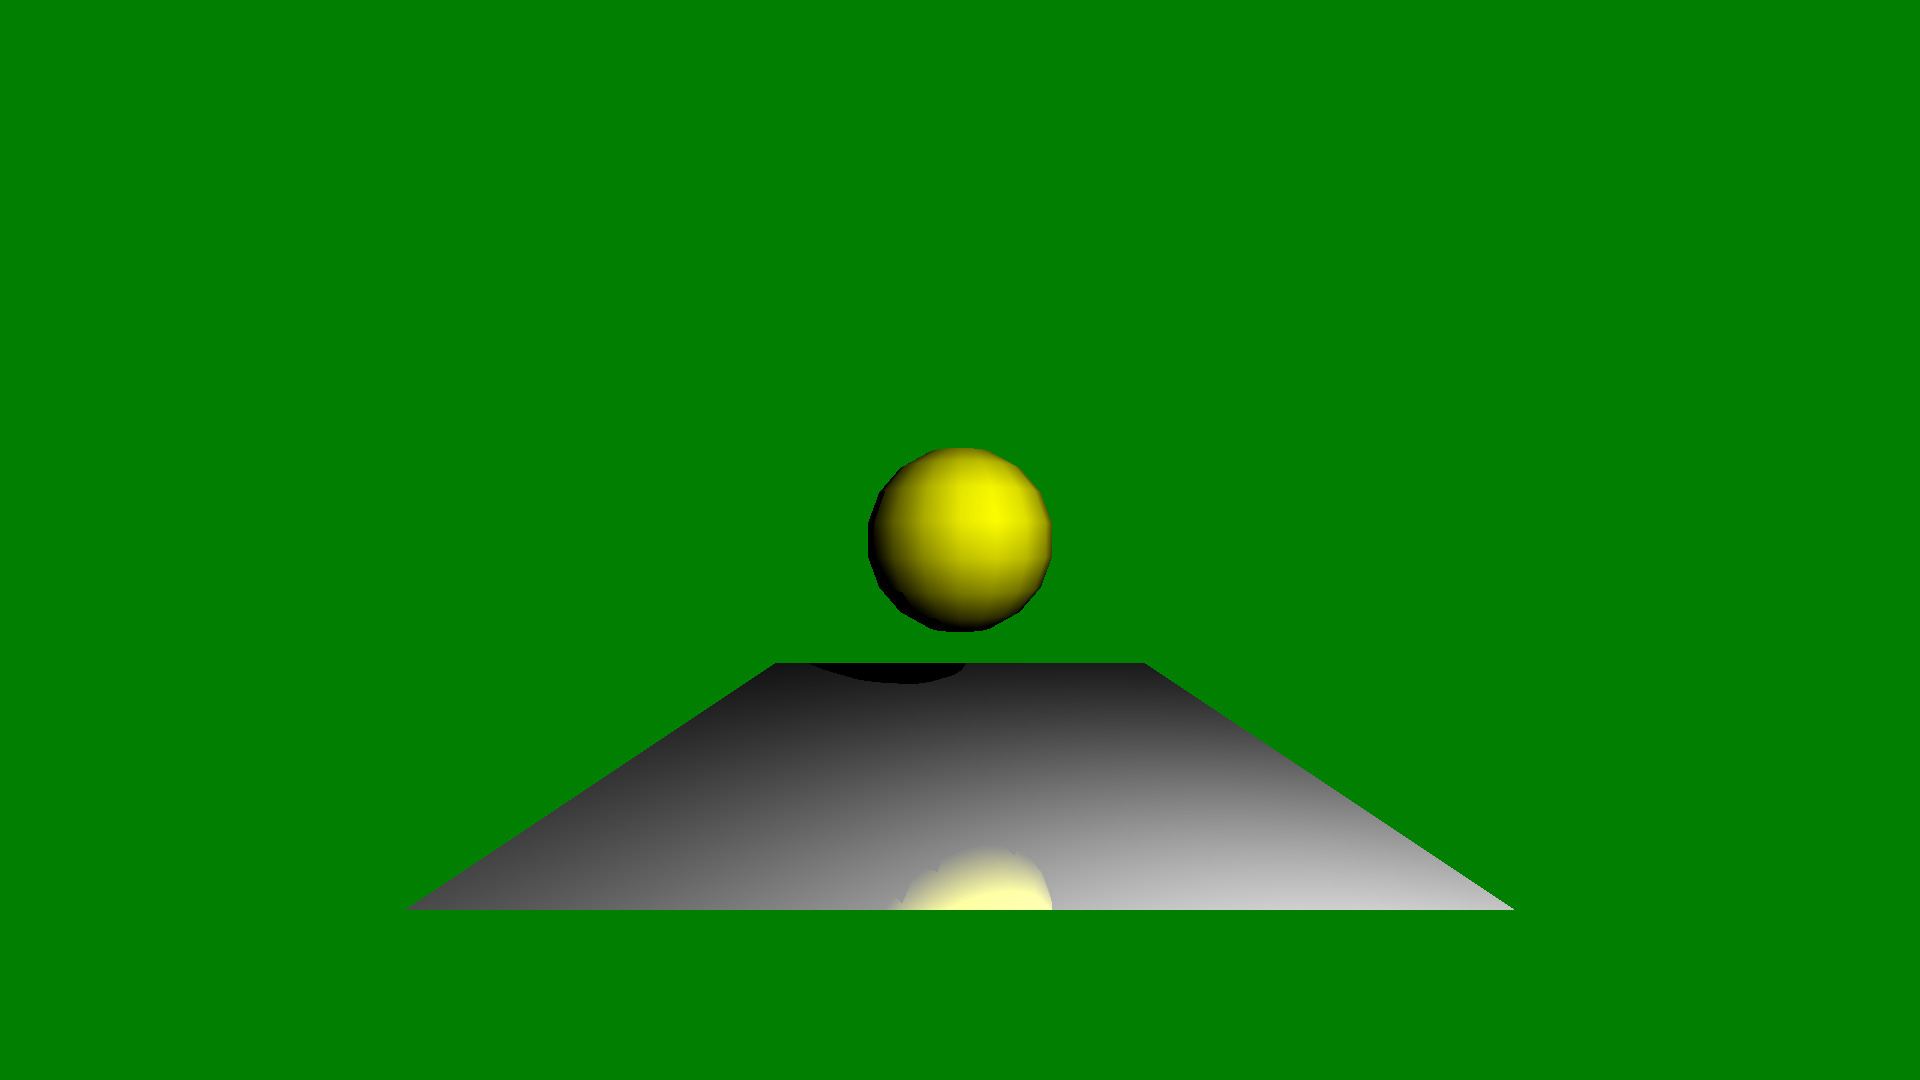
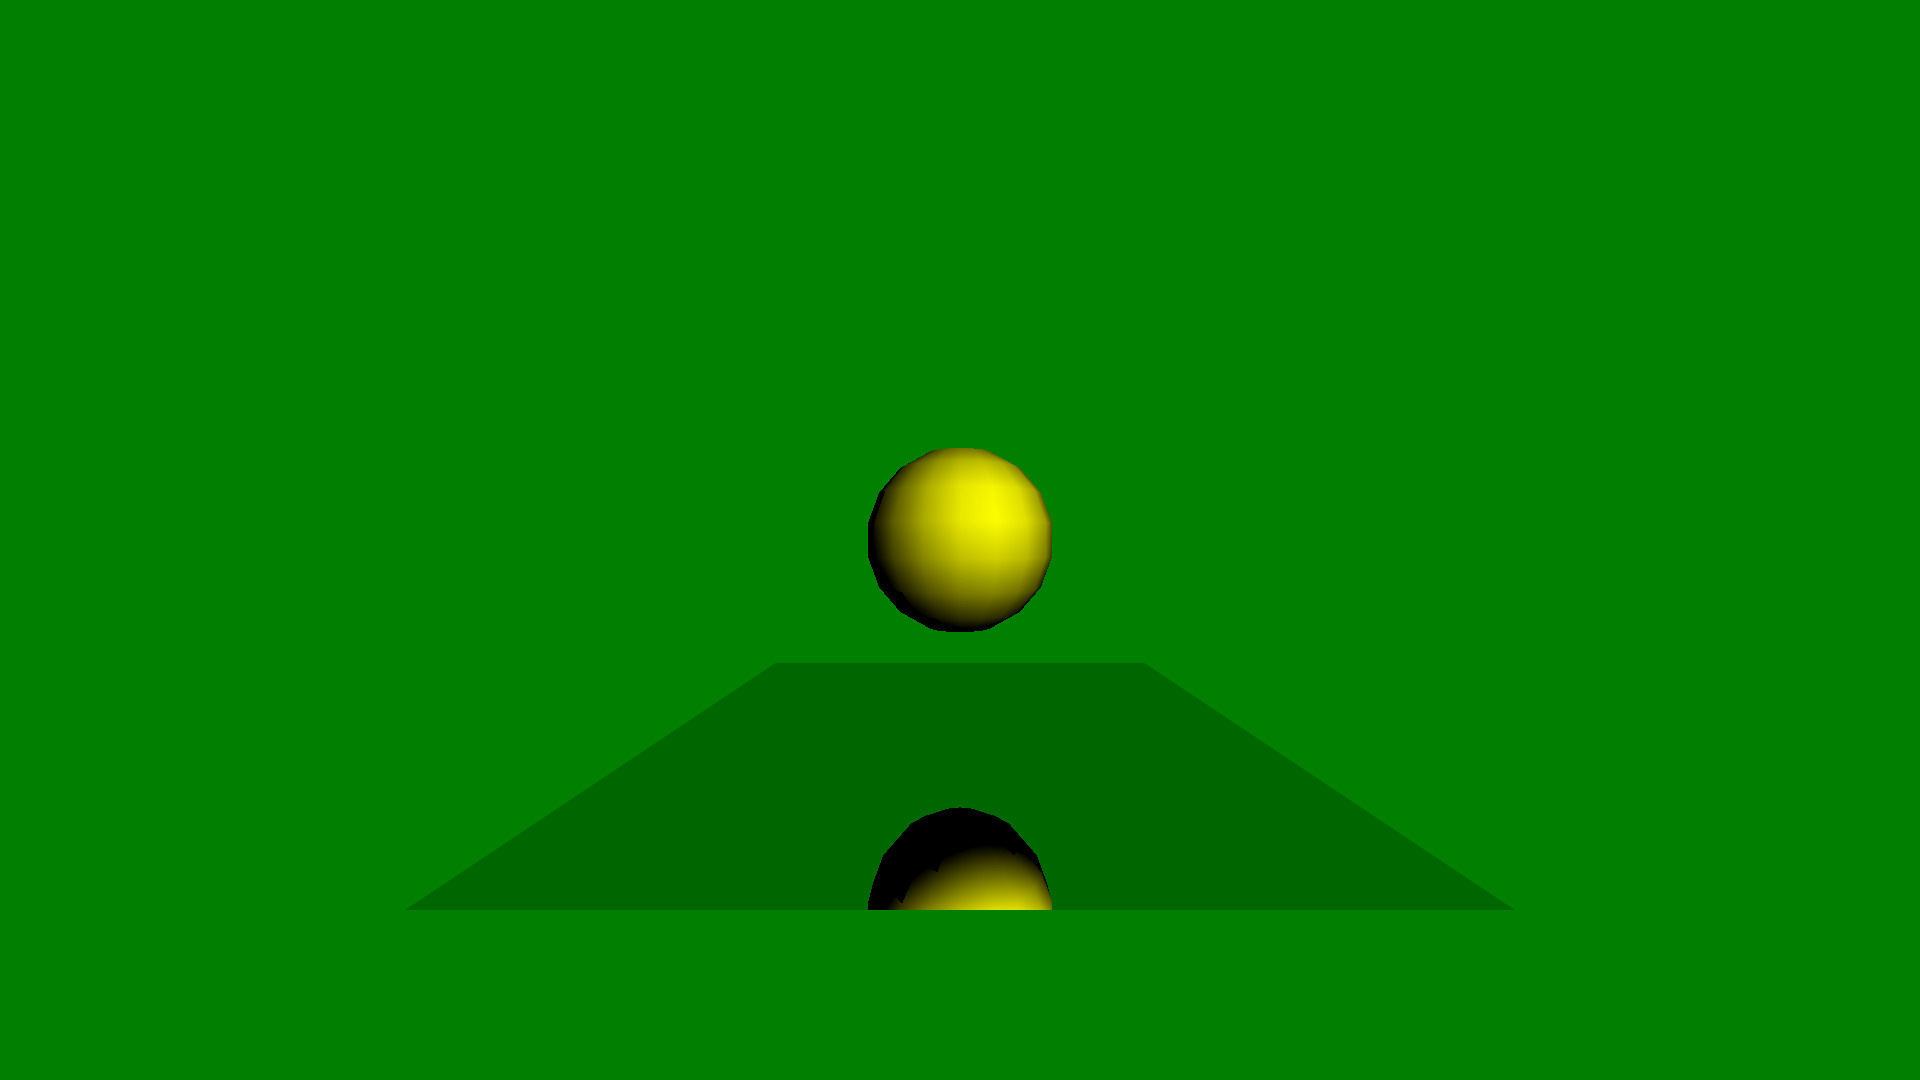
Fixed reflection

Changed region(s): [[0.2188, 0.6111, 0.7812, 0.8556]]

diff --git a/SourceCode/SimpleRayTracer/Raytracer.h b/SourceCode/SimpleRayTracer/Raytracer.h
@@ -56,25 +56,45 @@ private:
 		return n1 + n2 + n3;
 	}
 
-	Vector3 traceRay(Ray out,Geometry::Intersection isec)
+	Vector3 traceRay(Ray &out,Vector3 &finalColor,int bounces)
 	{
-		Vector3 Lin;
-		Vector3 finalColor = Vector3::zero();
-		Vector3 intersectionPoint = isec.t * out.dir + out.origin;
-		float sphereArea;
-		for (Light light : scene.sceneSettings.lights)
-		{
-			Lin = (light.position - intersectionPoint);
-			sphereArea = 4 * Lin.length() * Lin.length() * PI;
-			Lin = Lin.norm();
+		auto intersection = IntersectRay(out);
 
-			Ray shadowRay(intersectionPoint + scene.sceneSettings.EPSILON * Lin, Lin);
-			auto shadow = IntersectRay(shadowRay);
-			if (!shadow)
+		if (!intersection)
+		{
+			return scene.sceneSettings.bgCol;
+		}
+
+		Geometry::Intersection isec = intersection.value();
+		Vector3 Lin; //Incoming light direction
+		Vector3 intersectionPoint = isec.t * out.dir + out.origin;
+		if (isec.material->type == MaterialType::DIFFUSE) {
+			for (Light light : scene.sceneSettings.lights)
 			{
-				finalColor = finalColor + isec.material->albedo * light.intensity / sphereArea * std::max(0.0f, Dot(Lin, isec.normal));
+				Lin = (light.position - intersectionPoint);
+				float sphereArea = 4 * Lin.length() * Lin.length() * PI;
+				Lin = Lin.norm();
+				Ray shadowRay(intersectionPoint + scene.sceneSettings.EPSILON * Lin, Lin);
+				auto shadow = IntersectRay(shadowRay);
+				if (!shadow)
+				{
+					finalColor = finalColor + isec.material->albedo * light.intensity / sphereArea * std::max(0.0f, Dot(Lin, isec.normal));
+				}
+
 			}
 		}
+
+		else if (isec.material->type == MaterialType::REFLECTIVE)
+		{
+			
+			if (bounces > scene.sceneSettings.MAX_BOUNCE)
+				return finalColor;
+			bounces++;
+			Vector3 reflectedDir = Reflect(out.dir, isec.normal);
+			Ray Rin = Ray(intersectionPoint + scene.sceneSettings.EPSILON * reflectedDir, reflectedDir);
+			finalColor = finalColor + isec.material->albedo * traceRay(Rin, finalColor, bounces);
+		}
+
 		return finalColor;
 	}
 
@@ -90,50 +110,9 @@ public:
 			int y = i / scene.image.w;
 			Ray ray = scene.camera.CastRay(x, y);
 
-			auto intersection = IntersectRay(ray);
-			
-			if(!intersection)
-			{
-				scene.image.setPixel(x, y, scene.sceneSettings.bgCol);
-			}
-			else 
-			{
-				Geometry::Intersection isec = intersection.value();
-				Vector3 finalColor = Vector3::zero();
-
-				//If there are no lights, color by barycentric coordinates
-				if(scene.sceneSettings.lights.size() == 0)
-				{
-					finalColor = 255 * barycentricCoordinates(isec.t * ray.dir + ray.origin,isec.triangle);
-				}
-				else {
-					if (isec.material->type == MaterialType::DIFFUSE)
-					{
-						finalColor = traceRay(ray,isec);
-					}
-					else if (isec.material->type == MaterialType::REFLECTIVE)
-					{
-						int bounces = 0;
-						while(true)
-						{
-							bounces++;
-							if (bounces > scene.sceneSettings.MAX_BOUNCE) //Early stop
-								break;
-							finalColor = finalColor + traceRay(ray,isec);
-							//Calculate new ray and intersection
-							Vector3 reflectedDir = Reflect(ray.dir, isec.normal);
-							ray = Ray(isec.t * ray.dir + ray.origin + scene.sceneSettings.EPSILON * reflectedDir, reflectedDir);
-							auto reflectedIsec = IntersectRay(ray);
-							if (!reflectedIsec)
-								break;
-							isec = reflectedIsec.value();
-						}
-					}
-					finalColor = 255 * Min(Vector3(1.f, 1.f, 1.f),  finalColor);
-				}
-				
-				scene.image.setPixel(x, y, Color((int)finalColor.x,(int)finalColor.y,(int)finalColor.z));
-			}
+			Vector3 finalColor = Vector3::zero();
+			finalColor = 255 * Min(Vector3(1.f, 1.f, 1.f), traceRay(ray, finalColor, 0));
+			scene.image.setPixel(x, y, Color((int)finalColor.x,(int)finalColor.y,(int)finalColor.z));
 		}
 		scene.image.writePPM(imgName);
 	}

diff --git a/SourceCode/SimpleRayTracer/main.cpp b/SourceCode/SimpleRayTracer/main.cpp
@@ -13,7 +13,7 @@
 const std::string PATH = "C:\\Gazsi\\Prog\\ChaosCamp\\RayTracing\\course-assignment-hgandras\\Images";
 const std::string SCENE_PATH = "C:\\Gazsi\\Prog\\ChaosCamp\\RayTracing\\course-assignment-hgandras\\SourceCode\\Scenes\\";
 
-void Task8()
+void Task11()
 {
 
 	Scene scene0 = Scene::FromFile(SCENE_PATH + "\\Task9\\scene0.crtscene");
@@ -49,6 +49,6 @@ void Task8()
 
 int main()
 {
-	Task8();
+	Task11();
 }
 
